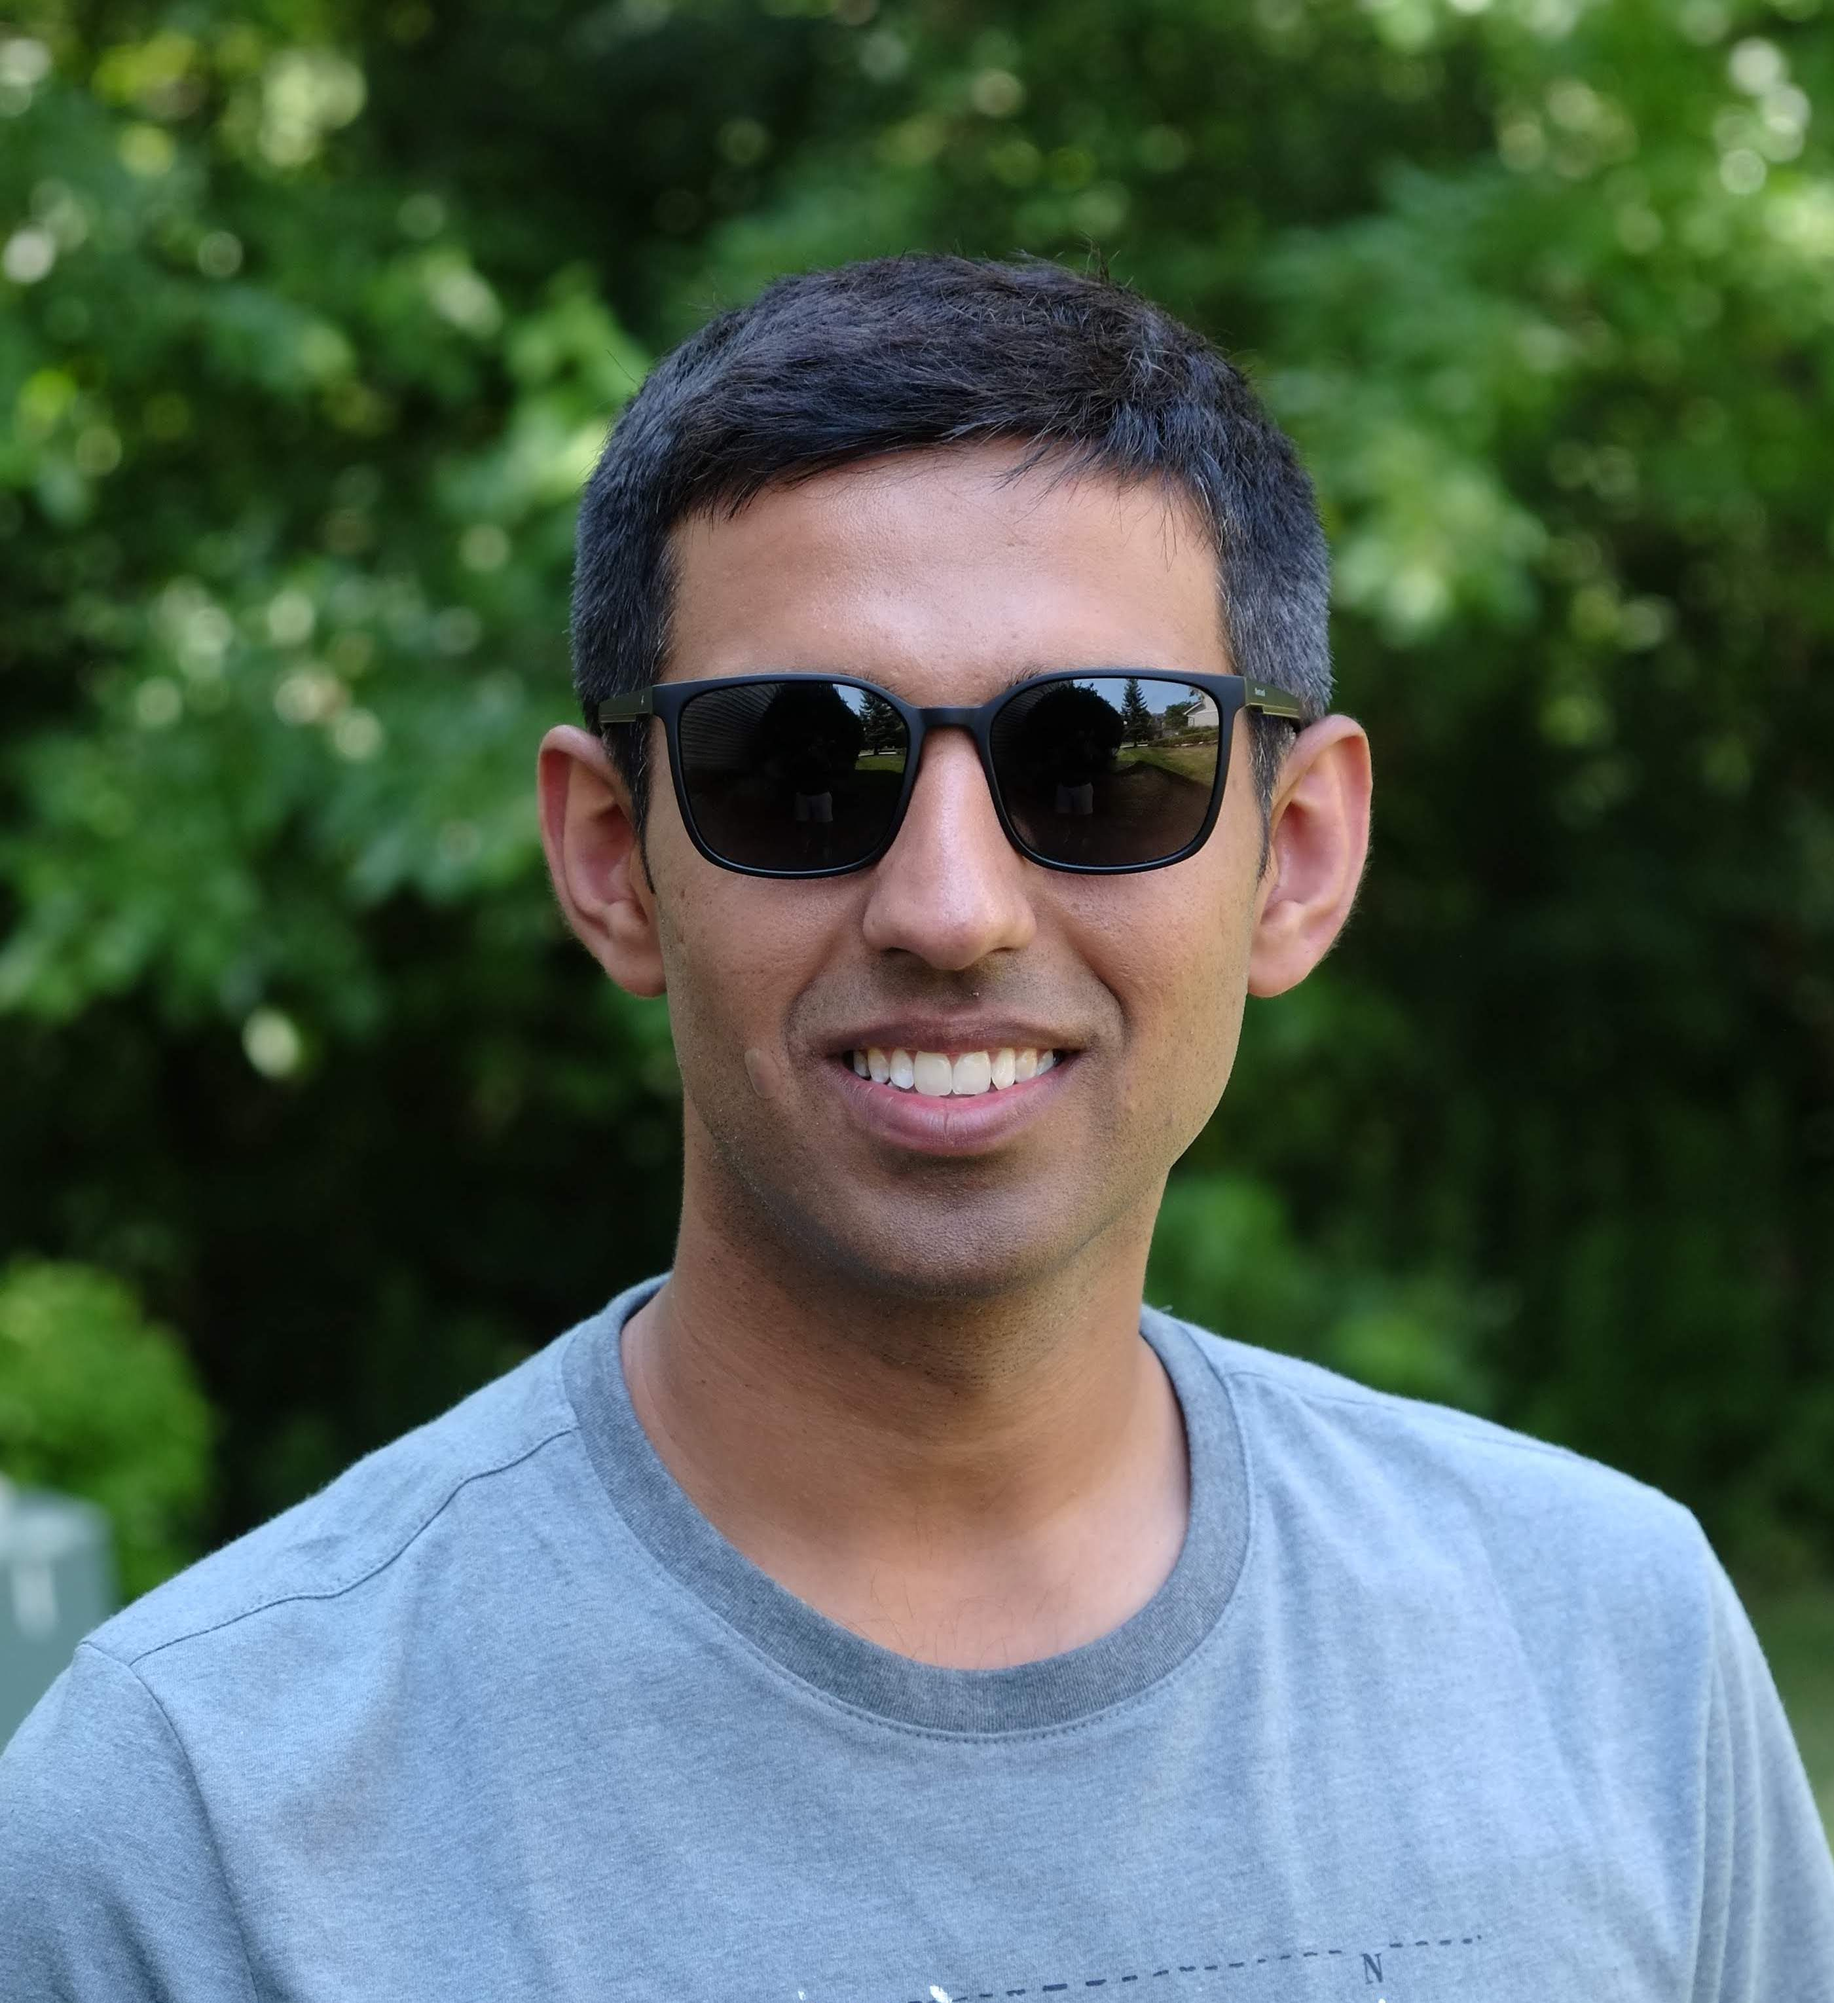
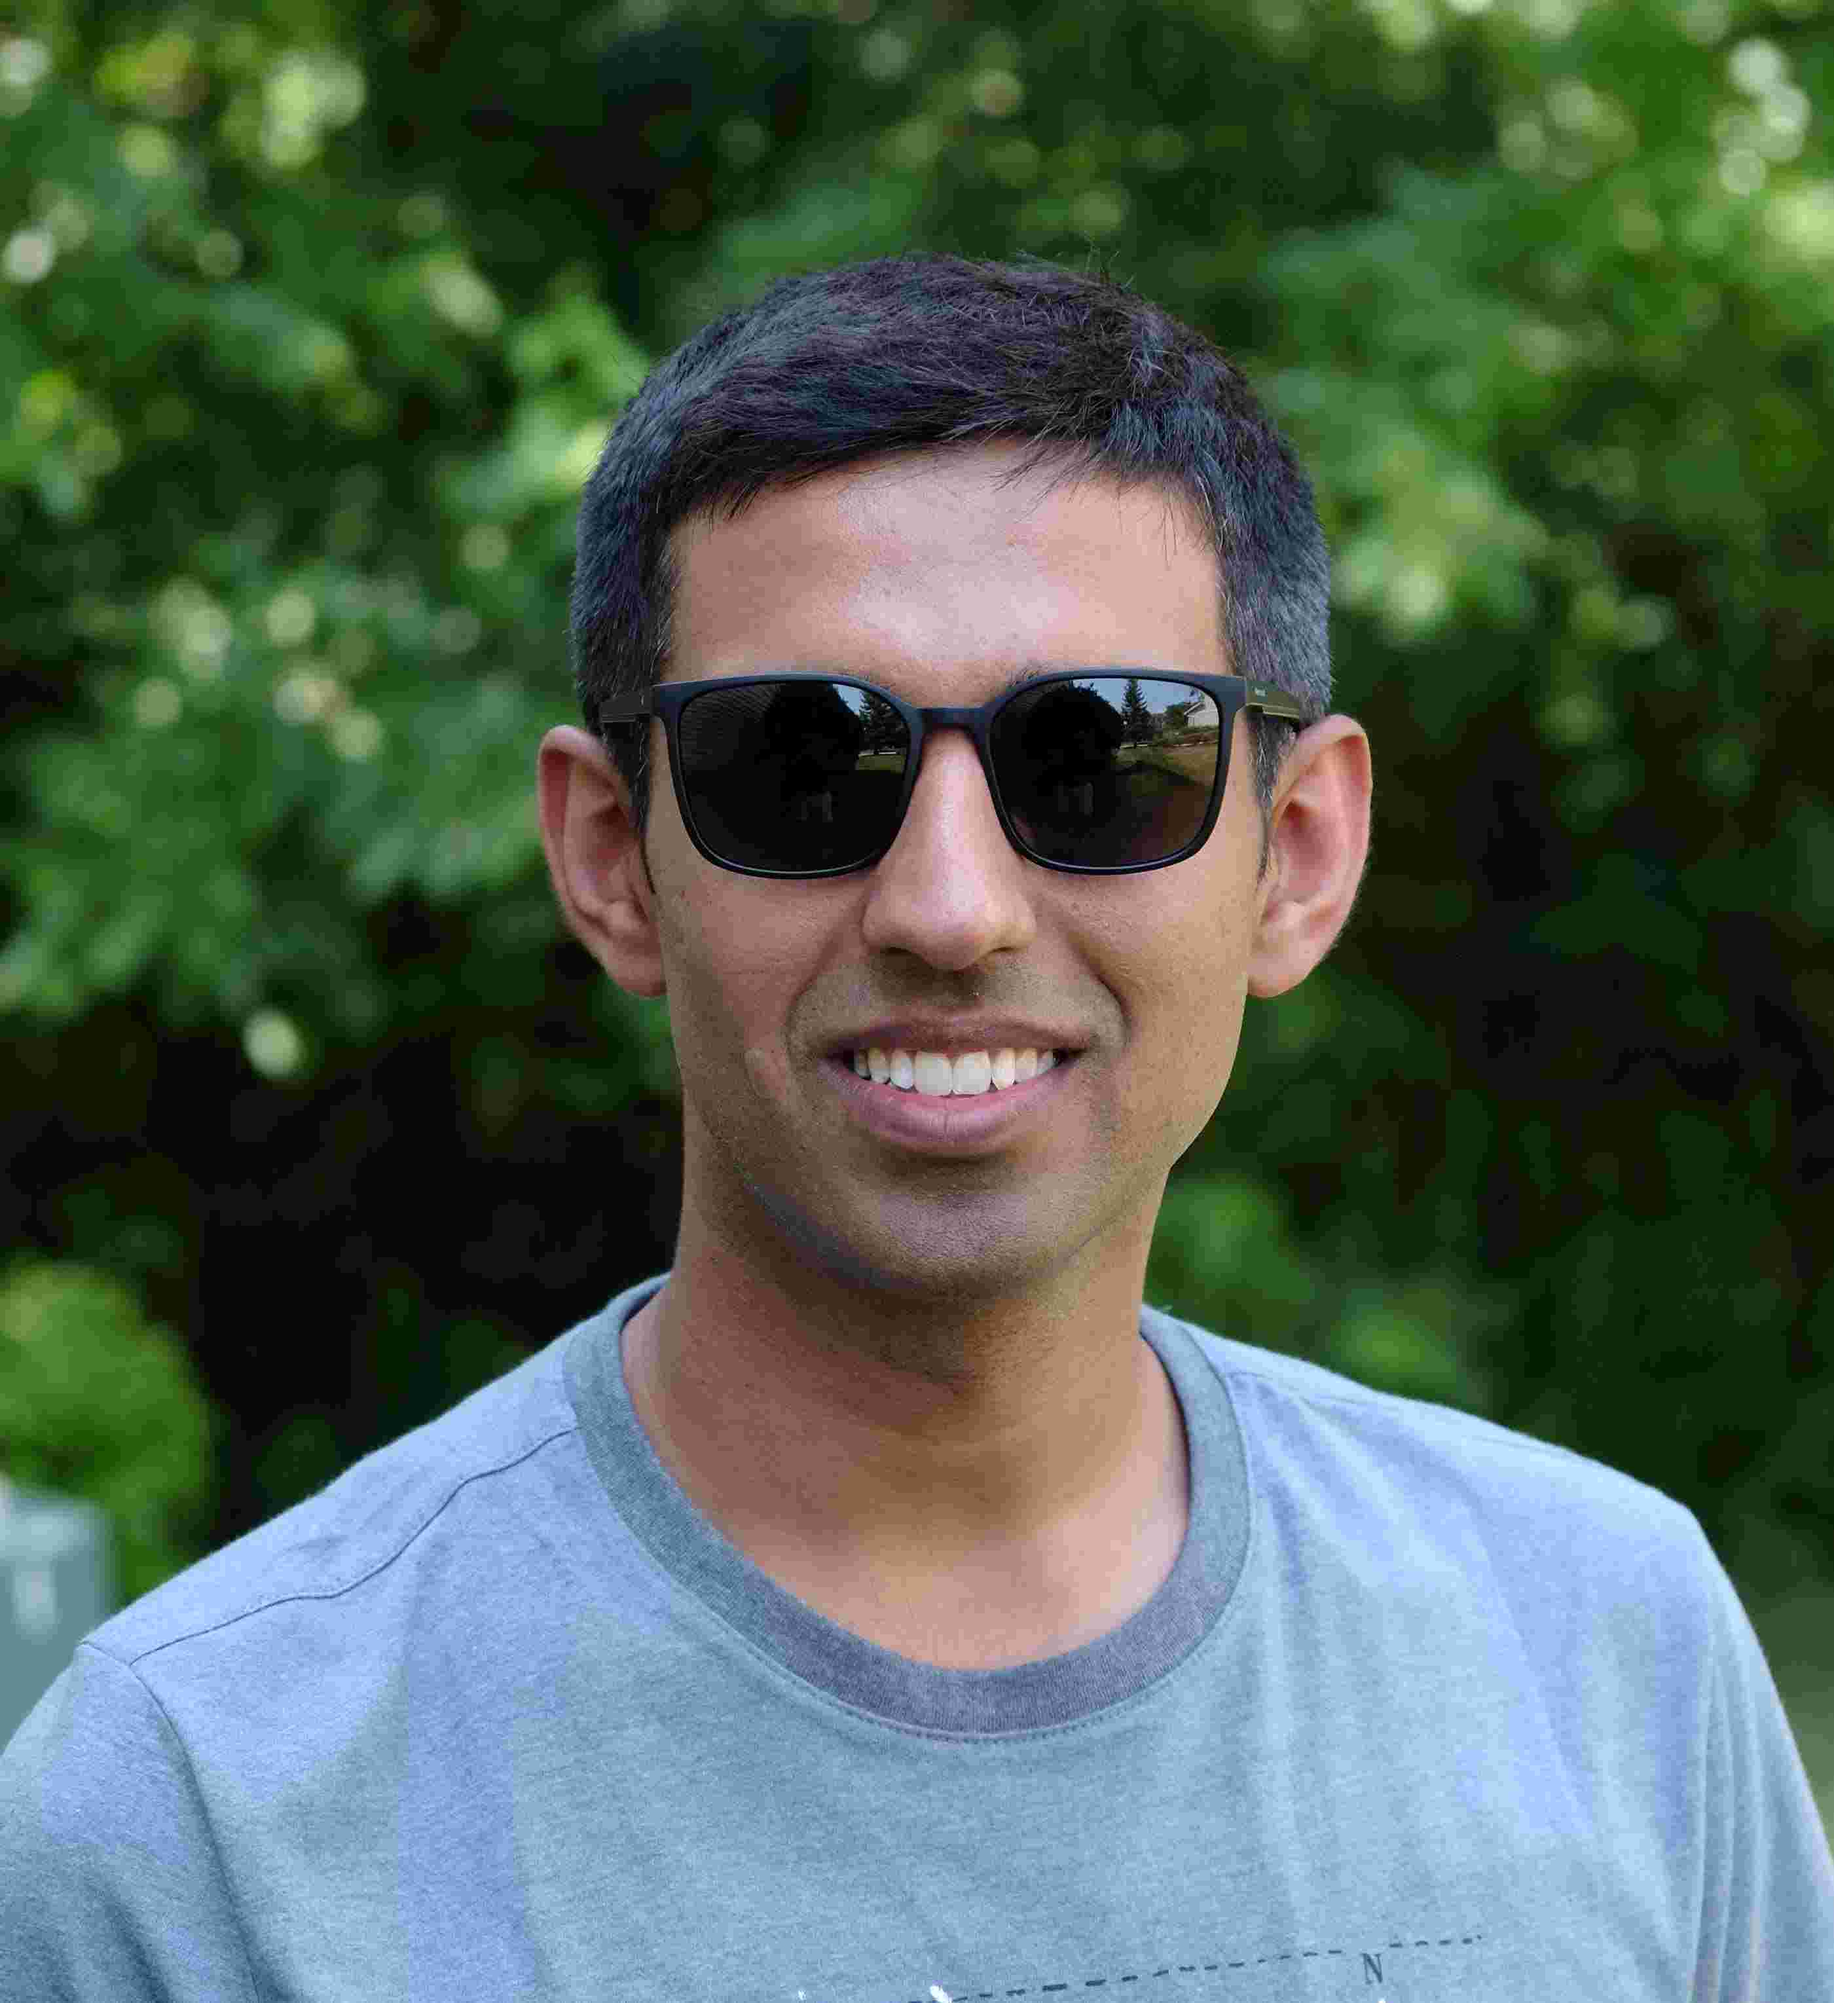
added compressed images

diff --git a/src/data/projects.js b/src/data/projects.js
@@ -1,53 +1,53 @@
 export const projects = [
     {
         title: "Workout Tracker using MongoDB",
-        image: "./assets/img/workout-tracker.png",
+        image: "./assets/img/workout-tracker-min.png",
         web: "https://alap-workout-tracker.herokuapp.com/",
         github: "https://github.com/alapsraval/workout-tracker"
     },
     {
         title: "Data Analysis using Pandas",
-        image: "./assets/img/project-1.jpeg",
+        image: "./assets/img/project-1-min.jpeg",
         github: "https://github.com/alapsraval/pandas-data-analysis"
     },
     {
         title: "Plotly Interactive Dashboard",
-        image: "./assets/img/project-2.jpeg",
+        image: "./assets/img/project-2-min.jpeg",
         web: "https://alapsraval.github.io/plotly-interactive-dashboard/",
         github: "https://github.com/alapsraval/plotly-interactive-dashboard"
     },
     {
         title: "Covid Catcher",
-        image: "./assets/img/coronavirus.jpeg",
+        image: "./assets/img/coronavirus-min.jpeg",
         web: "https://alapsraval.github.io/covid-catcher/",
         github: "https://github.com/alapsraval/covid-catcher"
     },
     {
         title: "Weather Dashboard",
-        image: "./assets/img/weather-dashboard.jpeg",
+        image: "./assets/img/weather-dashboard-min.jpeg",
         web: "https://alapsraval.github.io/weather-dashboard/",
         github: "https://github.com/alapsraval/weather-dashboard"
     },
     {
         title: "Coding Quiz",
-        image: "./assets/img/html.jpeg",
+        image: "./assets/img/html-min.jpeg",
         web: "https://alapsraval.github.io/html-coding-quiz/",
         github: "https://github.com/alapsraval/html-coding-quiz"
     },
     {
         title: "Password Generator",
-        image: "./assets/img/password.jpeg",
+        image: "./assets/img/password-min.jpeg",
         web: "https://alapsraval.github.io/password-generator/",
         github: "https://github.com/alapsraval/password-generator"
     },
     {
         title: "Web Scraping with Python",
-        image: "./assets/img/project-4.jpeg",
+        image: "./assets/img/project-4-min.jpeg",
         github: "ttps://github.com/alapsraval/web-scraping-application"
     },
     {
         title: "Data Journalism and D3",
-        image: "./assets/img/project-5.jpeg",
+        image: "./assets/img/project-5-min.jpeg",
         web: "https://alapsraval.github.io/D3-data-journalism/",
         github: "https://github.com/alapsraval/D3-data-journalism/"
     },
